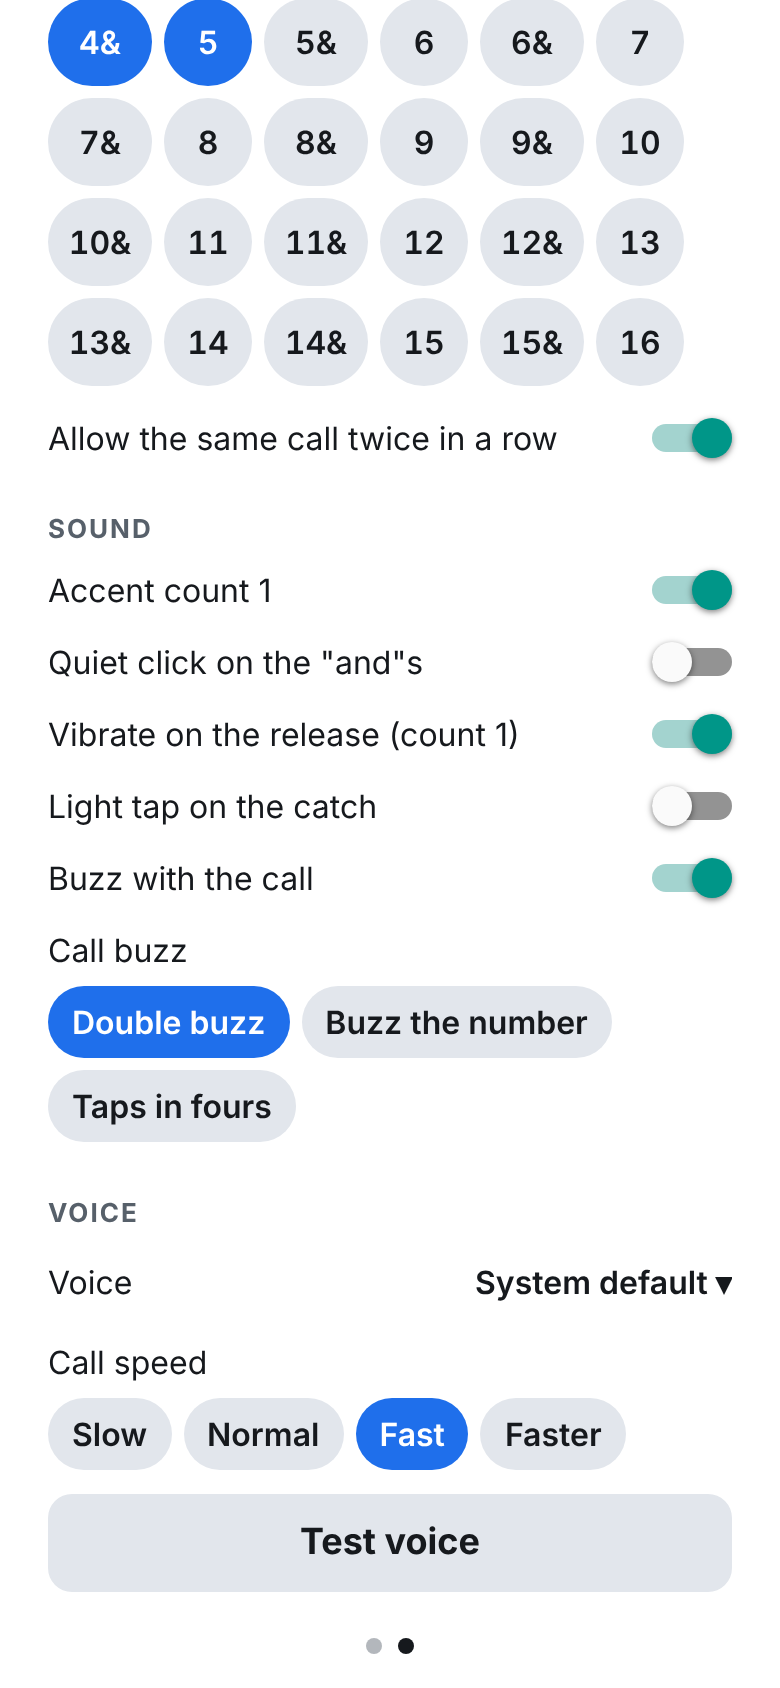
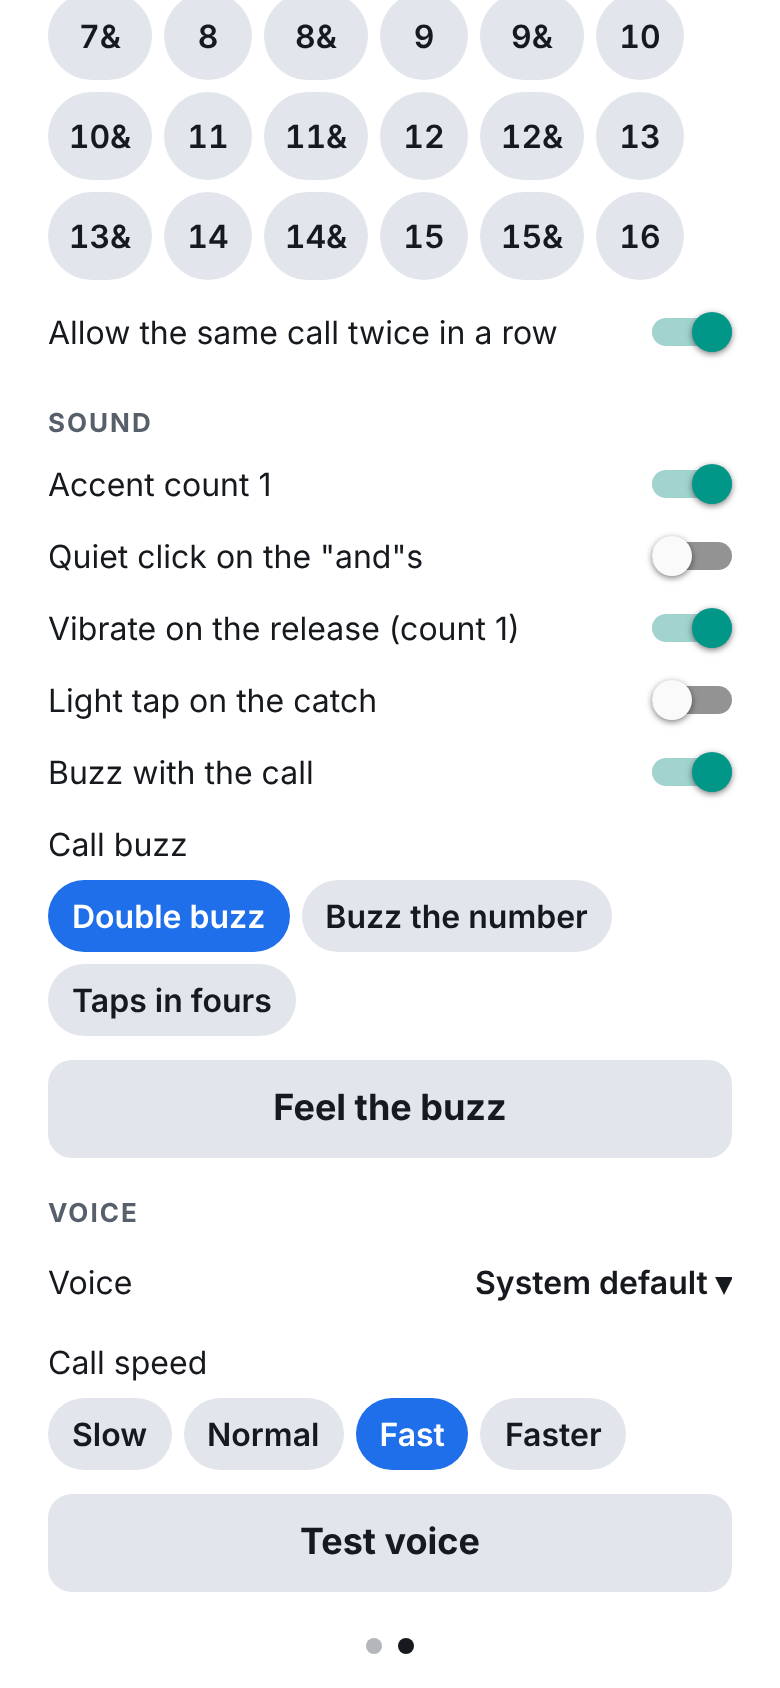
feat(ui): "Feel a 5" button to try the call buzz from Settings
Under the call buzz style, a button plays the longest call in the set
that taps out at the current tempo and lead (or the double buzz), so the
taps can be checked on the phone without starting a session. Disabled
while practicing, like Test voice. Smoke test and screenshots updated.

Claude-Session: https://claude.ai/code/session_01UV53BHK7T7wyeLb2NXaVza

Changed region(s): [[0.0615, 0.0, 0.9538, 0.7085], [0.4308, 0.3081, 0.5538, 0.3389], [0.3385, 0.3081, 0.4, 0.3389]]

diff --git a/src/components/SettingsPanel.tsx b/src/components/SettingsPanel.tsx
@@ -4,6 +4,7 @@ import { Pressable, StyleSheet, Text, View } from 'react-native';
 import {
   CALL_BUZZ_STYLES,
   COUNT_IN_OPTIONS,
+  CallBuzzSample,
   CallBuzzStyle,
   DEFAULT_CALL_BUZZ_STYLE,
   COUNT_OFF_PATTERNS,
@@ -20,6 +21,8 @@ import {
   addTap,
   announceCountInPhrase,
   callBuzzNote,
+  callBuzzSample,
+  callBuzzSampleLabel,
   callBuzzStyleLabel,
   callSetNote,
   countInLabel,
@@ -63,6 +66,8 @@ export interface SettingsPanelProps {
   onReloadVoices?: () => void;
   /** Speak a sample call at the chosen speed, with `voice` if given (else the chosen one). */
   onTestVoice: (voice?: string | null) => void;
+  /** Play a call buzz sample on the phone (Settings → Sound → "Feel a 5"). */
+  onFeelBuzz?: (sample: CallBuzzSample) => void;
   /**
    * While practicing everything can change: tempo, sounds and voice speed
    * right away, phrase and calls from the next toss not yet called (see
@@ -140,6 +145,7 @@ export function SettingsPanel({
   onVoiceChange,
   onReloadVoices,
   onTestVoice,
+  onFeelBuzz,
   running,
   pendingChange = null,
 }: SettingsPanelProps) {
@@ -156,6 +162,8 @@ export function SettingsPanel({
   const countOff = countOffSummary(countIn, settings, countOffPattern);
   const callBuzzStyle = cueOptions.callHapticStyle ?? DEFAULT_CALL_BUZZ_STYLE;
   const buzzNote = callBuzzNote(callBuzzStyle, settings, bpm);
+  const buzzSample = callBuzzSample(callBuzzStyle, settings, bpm);
+  const buzzSampleLabel = callBuzzSampleLabel(buzzSample);
 
   return (
     <View style={styles.panel}>
@@ -295,6 +303,29 @@ export function SettingsPanel({
             <Text style={styles.note} testID="call-buzz-note">
               {buzzNote}
             </Text>
+          ) : null}
+          {onFeelBuzz ? (
+            <Pressable
+              style={({ pressed }) => [styles.tap, pressed && styles.tapPressed]}
+              onPress={() => onFeelBuzz(buzzSample)}
+              disabled={previewLocked}
+              accessibilityRole="button"
+              accessibilityLabel={buzzSampleLabel}
+              accessibilityHint={
+                buzzSample.pulses
+                  ? 'Taps out this call on the phone, as it would during practice'
+                  : 'Plays the double buzz on the phone'
+              }
+              accessibilityState={{ disabled: previewLocked }}
+              testID="feel-call-buzz"
+            >
+              <Text style={[styles.tapText, previewLocked && styles.dimmed]}>
+                {buzzSampleLabel}
+              </Text>
+            </Pressable>
+          ) : null}
+          {onFeelBuzz && previewLocked ? (
+            <Text style={styles.note}>Stop to feel the buzz (it would run into the practice).</Text>
           ) : null}
         </>
       ) : null}

diff --git a/App.tsx b/App.tsx
@@ -28,6 +28,7 @@ import { SessionHistoryCard } from './src/components/SessionHistoryCard';
 import { SessionStatsCard } from './src/components/SessionStatsCard';
 import { SettingsPanel } from './src/components/SettingsPanel';
 import {
+  CallBuzzSample,
   CameraSettings as CameraSettingsValue,
   CueOptions,
   PageIndex,
@@ -48,6 +49,7 @@ import {
   settingsLinkLabel,
   summarizeStats,
 } from './src/engine';
+import { createHapticPlayer, HapticPlayer } from './src/feedback';
 import { usePracticeSession } from './src/practice';
 import { shareHistory, shareOutcomeMessage } from './src/sharing';
 import { useCustomPresets, usePersistedSettings, useSessionHistory } from './src/storage';
@@ -103,6 +105,14 @@ export default function App() {
       rate: voiceRate,
       voice: preview === undefined ? voice : (preview ?? undefined),
     }).say(VOICE_TEST_PHRASE);
+  // One player for the Settings preview, so a second press replaces pulses still playing.
+  const previewHaptics = useRef<HapticPlayer | null>(null);
+  const feelBuzz = (sample: CallBuzzSample) => {
+    previewHaptics.current ??= createHapticPlayer();
+    const player = previewHaptics.current;
+    if (sample.pulses && player.playPulses) player.playPulses(sample.pulses);
+    else player.play('call');
+  };
   const applyPresetToSettings = (preset: PracticePreset) => update((s) => applyPreset(s, preset));
   const {
     presets: customPresets,
@@ -362,6 +372,7 @@ export default function App() {
               onVoiceChange={setVoice}
               onReloadVoices={reloadVoices}
               onTestVoice={testVoice}
+              onFeelBuzz={feelBuzz}
               running={running}
               pendingChange={pendingChange}
             />

diff --git a/e2e/smoke.js b/e2e/smoke.js
@@ -387,7 +387,19 @@ async function main() {
       /four taps, a pause, then three/.test(groupedNote) && !/over 8 counts/.test(groupedNote),
       groupedNote,
     );
+    const feel = page.getByTestId('feel-call-buzz');
+    const feelLabel = (await feel.textContent()) ?? '';
+    check(
+      'the "Feel it" button names the longest call that taps out in fours',
+      /^Feel an? \d+( and)?$/.test(feelLabel),
+      feelLabel,
+    );
+    await feel.click();
     await page.getByRole('radio', { name: /^Double buzz/ }).click();
+    check(
+      'the double buzz can be felt too',
+      ((await page.getByTestId('feel-call-buzz').textContent()) ?? '') === 'Feel the buzz',
+    );
     check(
       'the double buzz needs no note',
       (await page.getByTestId('call-buzz-note').count()) === 0,
